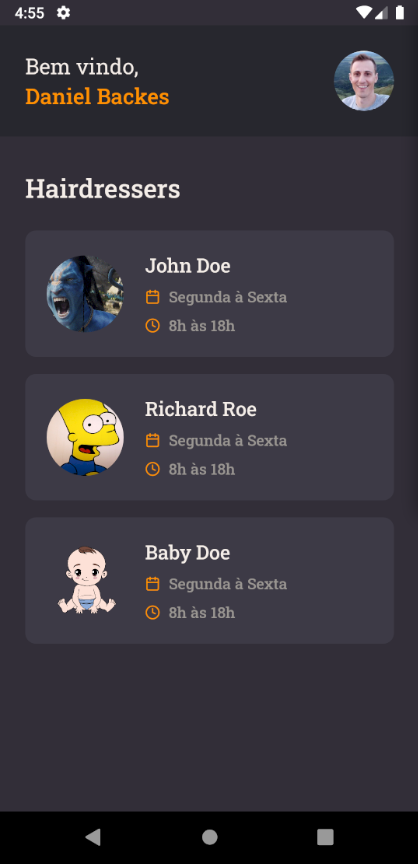
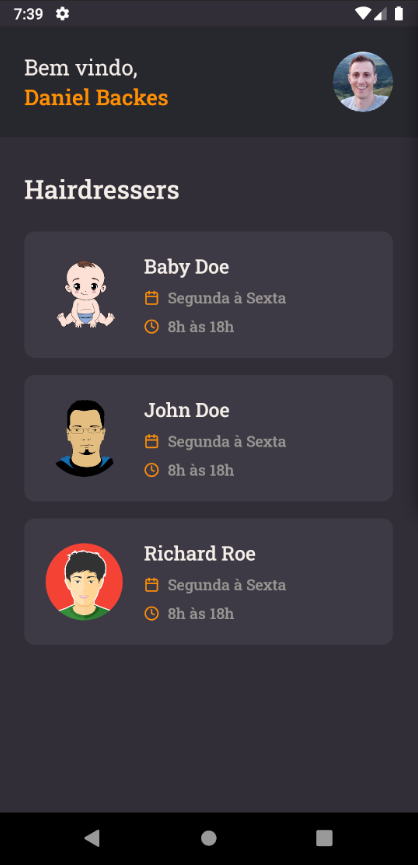
docs: Change the app screenshots

diff --git a/README.md b/README.md
@@ -40,3 +40,5 @@ This is the GoBarber's Mobile Application to manage barbershop scheduling.
 ![SignUp](readme/screenshot-4.png)
 ![SignUp](readme/screenshot-5.png)
 ![SignUp](readme/screenshot-6.png)
+
+![SignIn](readme/feature-graphic.png)
